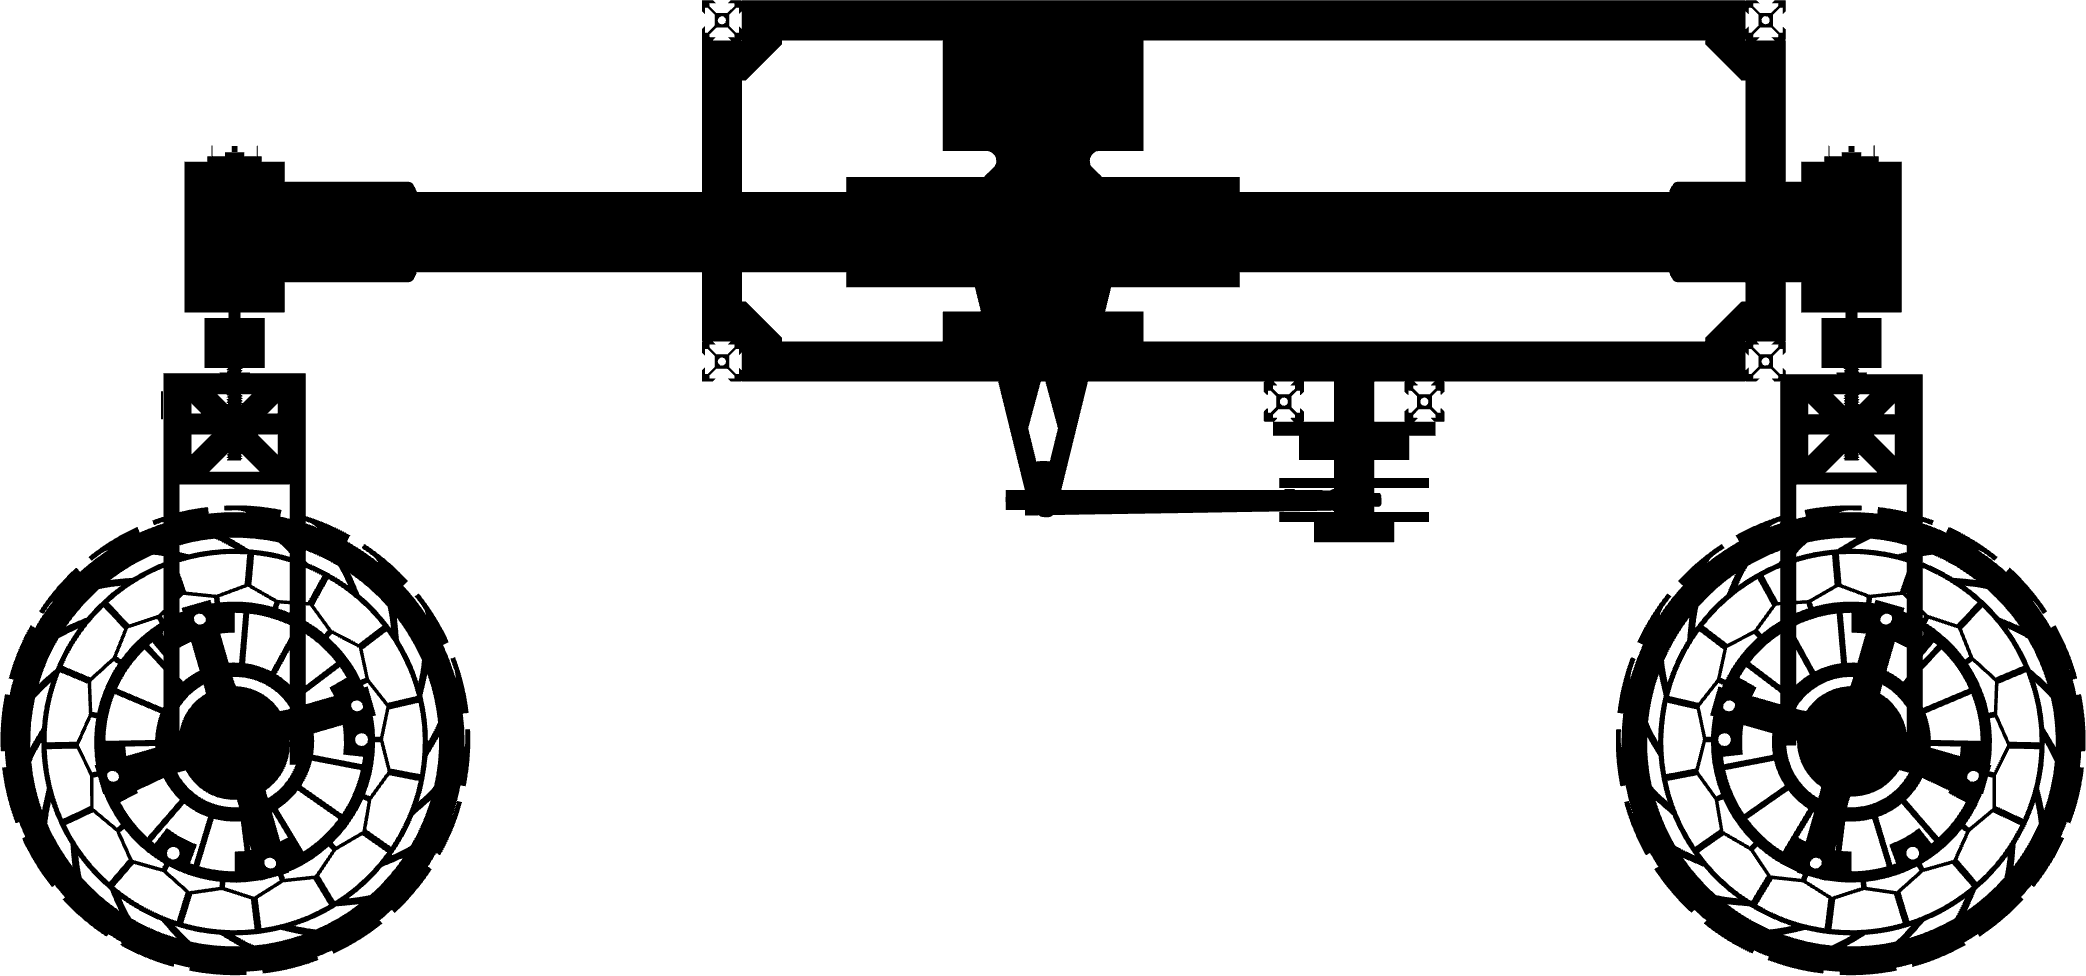
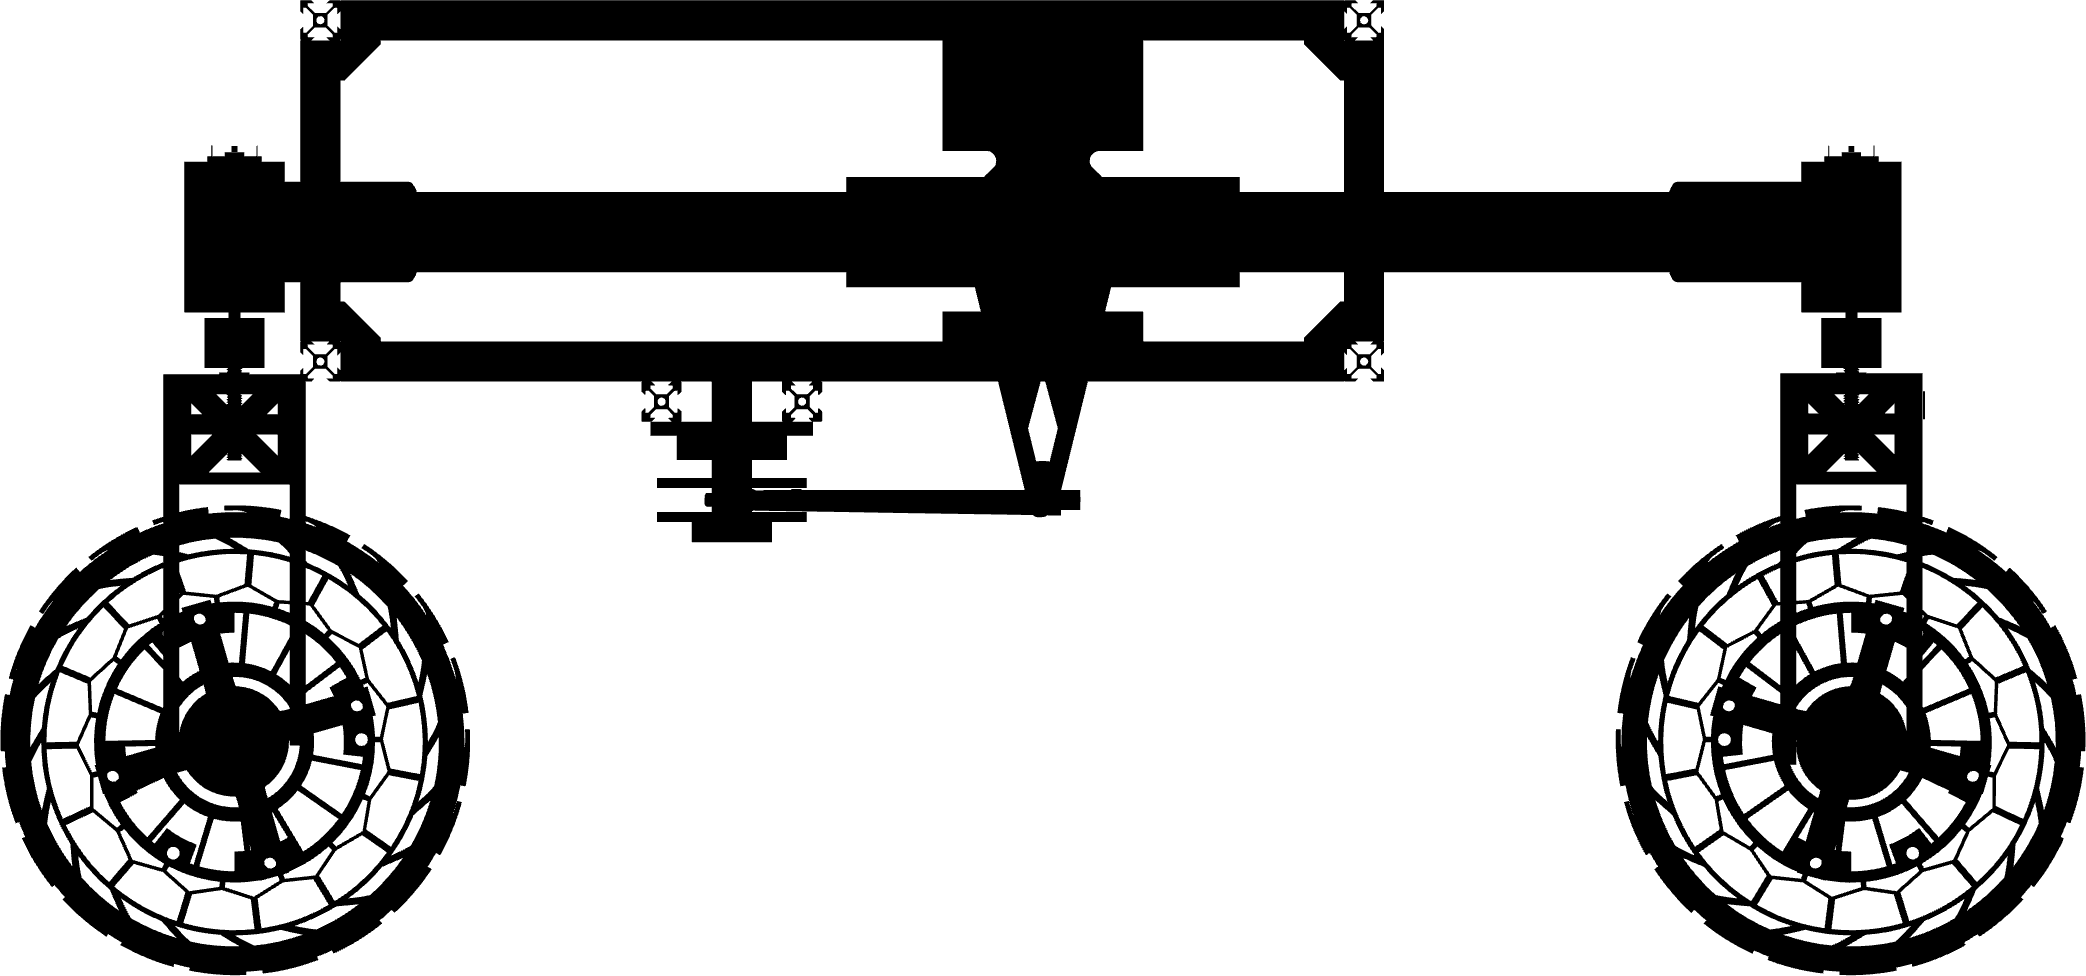
ARIES loop starts split across the screen edges; overlapping camera move
- Side loop: rover faces left again and the lap starts/ends with it
  straddling the screen's edges (rear on the left, front on the right);
  mid-lap the whole rover passes through.
- Camera move: the corner swing, climb, rover spin, descent and swing to
  the rear now overlap as one continuous move; the label names the view
  from the camera's actual position.
- Gallery grow-in opens along the diagonal (width and height together).
- Scrollbar triangle covers the middle 60% of the screen height.

diff --git a/src/main.js b/src/main.js
@@ -250,8 +250,9 @@ document.querySelector('#app').innerHTML = `
 
   <!-- ARIES. Silhouettes rendered from the CAD model, all black and backlit so they read. -->
   <section class="aries-rover" id="aries-rover" aria-label="ARIES">
-    <!-- Side view on a loop: the whole rover, front to the right, drifts right as you scroll; the front slides off
-         the right edge and comes back in on the left. Two identical sets make the loop seamless. -->
+    <!-- Side view on a loop. It starts with the rover straddling the screen's edges (rear on the left, front on the
+         right); scrolling drifts it right, so the rest of the rover comes in from the left, and after one lap it's back
+         where it started. Two identical sets make the loop seamless. -->
     <div class="aries-band">
       <div class="aries-track">
         ${[0, 1].map((copy) => `
@@ -1272,15 +1273,17 @@ gsap.timeline({
   .fromTo('.aries-side', { '--glow': 0 }, { '--glow': 1, duration: 1 }, 0)
   .fromTo('.aries-side img', { opacity: 0, y: 30 }, { opacity: 1, y: 0, duration: 1 }, 0);
 
-// The track holds two identical sets (200% wide). Either set looks the same, so sliding from -50% to 0 is one
-// seamless lap; wrap() keeps it in that range.
+// The track holds two identical sets (200% wide), each with the rover centred. Either set looks the same, so a
+// 50% slide is one seamless lap; wrap() keeps it in range. Starting at -25% puts the seam between the sets in the
+// middle of the screen... which is the middle of a rover split across the screen's edges: rear left, front right.
 const wrapTrack = gsap.utils.wrap(-50, 0);
+const LAP_START = -25;
 const ariesLap = { p: 0 };
-gsap.set('.aries-track', { xPercent: -50 });
+gsap.set('.aries-track', { xPercent: LAP_START });
 gsap.to(ariesLap, {
   p: 1,
   ease: 'none',
-  onUpdate: () => gsap.set('.aries-track', { xPercent: wrapTrack(-50 + ariesLap.p * 50) }),
+  onUpdate: () => gsap.set('.aries-track', { xPercent: wrapTrack(LAP_START + ariesLap.p * 50) }),
   scrollTrigger: { trigger: '.aries-band', start: 'center center', end: '+=140%', pin: true, scrub: true },
 });
 
@@ -1293,25 +1296,31 @@ gsap.to(ariesLap, {
 const orbitState = { az: 0, el: 0, spin: 0 };
 let orbit = null;
 const orbitLabel = document.getElementById('aries-orbit-label');
-const ORBIT_STAGES = [ // [timeline position, label]
-  [0, 'Front'], [1, 'Front · right corner'], [2, 'Top'], [3.5, 'Rear · left corner'], [4.5, 'Rear'],
-];
+// Name the view from where the camera actually is (the moves overlap, so there are no clean stage boundaries).
+function orbitView({ az, el, spin }) {
+  if (el > 65) return 'Top';
+  const corner = az < -15;
+  if (spin < 90) return corner ? 'Front · right corner' : 'Front';
+  return corner ? 'Rear · left corner' : 'Rear';
+}
 const orbitTl = gsap.timeline({
-  defaults: { ease: 'power1.inOut' },
+  defaults: { ease: 'sine.inOut' },
   onUpdate: () => {
     orbit?.render(orbitState);
-    const t = orbitTl.time();
-    const label = [...ORBIT_STAGES].reverse().find(([at]) => t >= at - 0.25)?.[1] ?? 'Front';
+    const label = orbitView(orbitState);
     if (orbitLabel.textContent !== label) orbitLabel.textContent = label;
   },
 })
   .fromTo('.aries-orbit-canvas', { opacity: 0, y: 40 }, { opacity: 1, y: 0, duration: 0.5, ease: 'power2.out' }, 0)
   .fromTo('.aries-orbit-glow', { opacity: 0, scale: 0.8 }, { opacity: 1, scale: 1, duration: 0.5, ease: 'power2.out' }, 0)
-  .to(orbitState, { az: -45, duration: 1 }, 0.5)       // front → front-right corner
-  .to(orbitState, { el: 90, duration: 1 }, 1.5)        // up the diagonal to overhead
-  .to(orbitState, { spin: 180, duration: 1 }, 2.5)     // rover turns half a lap beneath the camera
-  .to(orbitState, { el: 0, duration: 1 }, 3.5)         // back down the same path: the opposite corner
-  .to(orbitState, { az: 0, duration: 1 }, 4.5)         // round to face the rear
+  // One continuous, overlapping move rather than separate steps: the camera is still swinging to the corner as it
+  // starts to climb, the rover starts turning on the way up and keeps turning on the way down, and the camera is
+  // already swinging back round as it comes down.
+  .to(orbitState, { az: -45, duration: 1.4 }, 0.4)     // front → front-right corner
+  .to(orbitState, { el: 90, duration: 1.6 }, 0.9)      // up the diagonal to overhead
+  .to(orbitState, { spin: 180, duration: 2.4 }, 1.6)   // rover turns half a lap beneath the camera
+  .to(orbitState, { el: 0, duration: 1.6 }, 2.5)       // back down the same path: the opposite corner
+  .to(orbitState, { az: 0, duration: 1.4 }, 3.6)       // round to face the rear
   .to({}, { duration: 0.3 });                          // a beat on the rear view before moving on
 
 ScrollTrigger.create({
@@ -1350,7 +1359,8 @@ gsap.utils.toArray('.aries-view').forEach((view, i) => {
 });
 
 // ====================================================================
-// SCROLLBAR — a long, thin triangle on the right edge. Its base is the screen edge and its apex
+// SCROLLBAR — a long, thin triangle on the right edge, over the middle 60% of the height (the canvas is sized to
+// that in style.css). Its base is the screen edge and its apex
 // follows the scroll position, held back from the very top and bottom so it's never right-angled.
 // Faint strands run from the apex to drifting points on the edge, like the About web.
 // ====================================================================
@@ -1480,16 +1490,15 @@ photoItems.forEach((item) => {
   });
 });
 
-// Every video and photo grows into place from its top-left corner: a small square frame appears there, opens
-// to the right, then down, revealing the image through it. The image itself never scales; only the window grows.
+// Every video and photo grows into place from its top-left corner: a small square frame appears there and opens
+// along the diagonal to the bottom-right, revealing the image through it. The image never scales; only the window.
 // --wx/--wy (1 → 0) close/open the window, --go fades its outline (see .grow in style.css).
 const growEls = gsap.utils.toArray('.grow');
 gsap.set(growEls, { '--wx': 1, '--wy': 1, '--go': 0 });
 growEls.forEach((el) => {
   const tl = gsap.timeline({ paused: true, defaults: { ease: 'power3.inOut' } })
     .to(el, { '--go': 1, duration: 0.08, ease: 'none' })
-    .to(el, { '--wx': 0, duration: 0.32 })
-    .to(el, { '--wy': 0, duration: 0.32 }, '-=0.14')
+    .to(el, { '--wx': 0, '--wy': 0, duration: 0.45 })
     .to(el, { '--go': 0, duration: 0.25, ease: 'none' }, '-=0.05');
   const play = el.querySelector('.video-play');
   if (play) tl.fromTo(play, { opacity: 0 }, { opacity: 1, duration: 0.2, ease: 'none' }, '-=0.2');

diff --git a/src/style.css b/src/style.css
@@ -72,11 +72,11 @@ html::-webkit-scrollbar {
 
 .scroll-tri {
   position: fixed;
-  top: 0;
+  top: 20vh;
   right: 0;
   z-index: 150;
   width: 24px; /* wider than the triangle: an easier target to grab */
-  height: 100vh;
+  height: 60vh; /* the middle 60% of the screen */
   cursor: grab;
   touch-action: none;
 }
